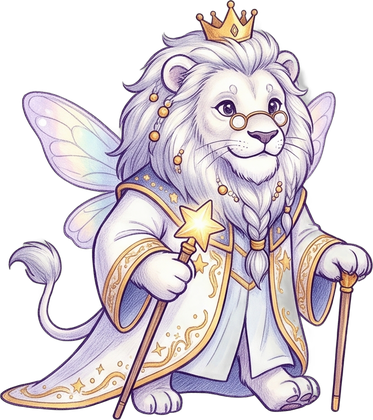
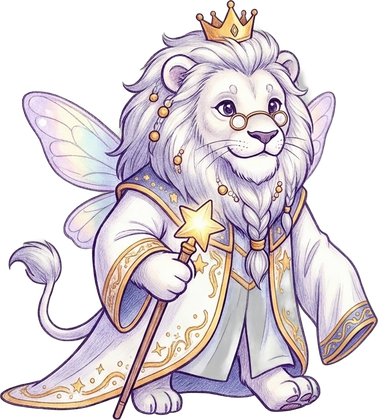
Build 136: the walking headmaster holds one cane

diff --git a/js/game.js b/js/game.js
@@ -2,13 +2,13 @@
 import {
   OFFLINE_CAP_SEC, MAX_DESKS, MAX_ITEM_LEVEL, MAX_TEACHER_LEVEL, MAX_TIME_LEVEL,
   CLASSES, SPECIES, NAMES, MISSIONS, WORLDS, WORLD, META,
-} from './data.js?v=135';
-import { EMOJI_RE, emojiImage, preloadEmoji, watchEmoji, emojiHtml } from './emoji.js?v=135';
+} from './data.js?v=136';
+import { EMOJI_RE, emojiImage, preloadEmoji, watchEmoji, emojiHtml } from './emoji.js?v=136';
 
 const SAVE_KEY = WORLD === 1 ? 'magicschool.save.v2' : 'magicschool.save.v2.w' + WORLD;   // every world keeps its own save
 const saveKeyOf = (w) => (w === 1 ? 'magicschool.save.v2' : 'magicschool.save.v2.w' + w);
 const VERSION = '0.9';
-const BUILD = 135;   // keep equal to the ?v= number in index.html
+const BUILD = 136;   // keep equal to the ?v= number in index.html
 const $ = (s, r = document) => r.querySelector(s);
 const rnd = (a) => a[Math.floor(Math.random() * a.length)];
 
@@ -825,7 +825,7 @@ const conciergeAway = () => conU > 0.02;
 // comes back reading; when the room is full of readers he sometimes goes «shhh».
 // The headmaster lion (her yes 2026-11-21): signs papers behind his desk, walks to the window and thinks, comes back and raises his scepter.
 const DIR_POSES = ['sign', 'think', 'walk', 'proud'];
-for (const f of DIR_POSES) { const im = new Image(); im.src = `assets/staff/dir_${f}.png?v=1`; sprites['dir_' + f] = im; }
+for (const f of DIR_POSES) { const im = new Image(); im.src = `assets/staff/dir_${f}.png?v=2`; sprites['dir_' + f] = im; }
 let dirU = 0, dirTrip = 0, dirClock = 0, dirHold = 0, dirLast = 0;
 function directorPos() {
   const now = performance.now() / 1000, dt = Math.min(0.2, now - (dirLast || now)); dirLast = now;

diff --git a/index.html b/index.html
@@ -12,7 +12,7 @@
 <link rel="manifest" href="manifest.webmanifest">
 <link rel="apple-touch-icon" href="icons/icon-180.png">
 <link rel="icon" href="icons/icon-192.png">
-<link rel="stylesheet" href="style.css?v=135">
+<link rel="stylesheet" href="style.css?v=136">
 </head>
 <body>
 <div id="app">
@@ -34,6 +34,6 @@ window.addEventListener('error',function(e){showErr(e.message+' @'+(e.filename||
 window.addEventListener('unhandledrejection',function(e){showErr(String(e.reason));});
 if(!CanvasRenderingContext2D.prototype.roundRect){CanvasRenderingContext2D.prototype.roundRect=function(x,y,w,h){this.rect(x,y,w,h);};}
 </script>
-<script type="module" src="js/game.js?v=135"></script>
+<script type="module" src="js/game.js?v=136"></script>
 </body>
 </html>

diff --git a/js/emoji.js b/js/emoji.js
@@ -1,6 +1,6 @@
 // One emoji look on every device: emoji characters are replaced by bundled Twemoji pictures
 // (CC-BY 4.0, https://github.com/jdecked/twemoji), both in the page (DOM) and on the canvas.
-import { EMOJI_FILES } from './emoji-set.js?v=135';
+import { EMOJI_FILES } from './emoji-set.js?v=136';
 
 export const EMOJI_RE = /\p{Extended_Pictographic}(?:|\p{Extended_Pictographic}?|[\u{1F3FB}-\u{1F3FF}])*/gu;
 
